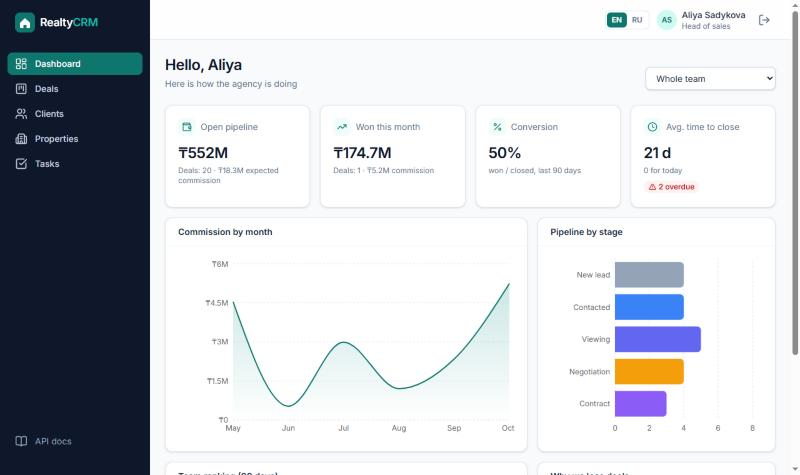
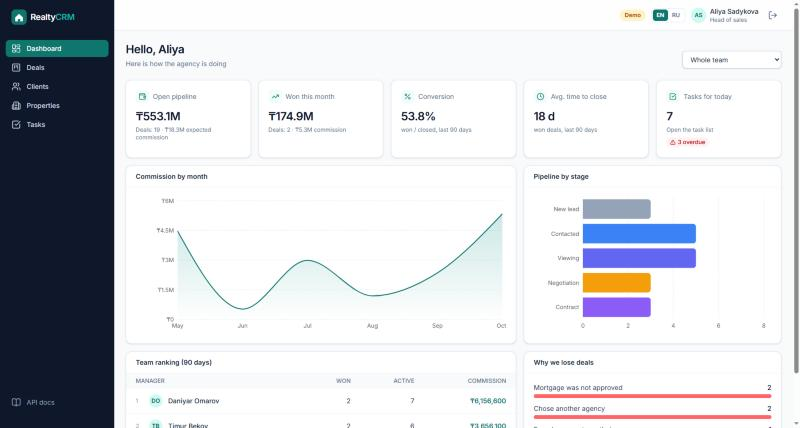
Balance dashboard cards on every screen width, update README and screenshot

diff --git a/frontend/src/pages/DashboardPage.tsx b/frontend/src/pages/DashboardPage.tsx
@@ -1,3 +1,4 @@
+import clsx from 'clsx'
 import { AlertTriangle, CheckSquare, Clock, Percent, TrendingUp, Wallet } from 'lucide-react'
 import { type ReactNode, useState } from 'react'
 import { useTranslation } from 'react-i18next'
@@ -31,6 +32,7 @@ function Kpi({
   hint,
   hintTo,
   alert,
+  className,
 }: {
   icon: ReactNode
   label: string
@@ -38,9 +40,10 @@ function Kpi({
   hint?: string
   hintTo?: string
   alert?: { text: string; to: string }
+  className?: string
 }) {
   return (
-    <Card className="p-5">
+    <Card className={clsx('p-5', className)}>
       <div className="flex items-center gap-2 text-sm text-slate-500">
         <span className="rounded-lg bg-brand-50 p-1.5 text-brand-700">{icon}</span>
         {label}
@@ -114,8 +117,10 @@ export function DashboardPage() {
         }
       />
 
-      <div className="grid gap-4 sm:grid-cols-2 lg:grid-cols-3 2xl:grid-cols-5">
+      {/* 5 cards that always fill the row: 2+2+1 on tablets, 3+2 on laptops, 5 in a row on wide screens */}
+      <div className="grid gap-4 sm:grid-cols-2 lg:grid-cols-6 2xl:grid-cols-5">
         <Kpi
+          className="lg:col-span-2 2xl:col-span-1"
           icon={<Wallet className="size-4" />}
           label={t('dashboard.pipeline')}
           value={money(data.pipeline.amount, true)}
@@ -125,6 +130,7 @@ export function DashboardPage() {
           })}
         />
         <Kpi
+          className="lg:col-span-2 2xl:col-span-1"
           icon={<TrendingUp className="size-4" />}
           label={t('dashboard.wonThisMonth')}
           value={money(data.won_this_month.amount, true)}
@@ -134,12 +140,14 @@ export function DashboardPage() {
           })}
         />
         <Kpi
+          className="lg:col-span-2 2xl:col-span-1"
           icon={<Percent className="size-4" />}
           label={t('dashboard.conversion')}
           value={data.conversion_rate === null ? '—' : `${data.conversion_rate}%`}
           hint={t('dashboard.conversionHint')}
         />
         <Kpi
+          className="lg:col-span-3 2xl:col-span-1"
           icon={<Clock className="size-4" />}
           label={t('dashboard.avgDays')}
           value={
@@ -148,6 +156,7 @@ export function DashboardPage() {
           hint={t('dashboard.avgHint')}
         />
         <Kpi
+          className="sm:col-span-2 lg:col-span-3 2xl:col-span-1"
           icon={<CheckSquare className="size-4" />}
           label={t('dashboard.todayTasks')}
           value={String(data.tasks.today)}

diff --git a/README.md b/README.md
@@ -7,9 +7,10 @@ tasks and a dashboard with commission analytics. Managers work with their own de
 
 **Backend:** Python 3.12 · Django 5.2 · Django REST Framework · JWT (httpOnly cookies) · PostgreSQL · OpenAPI/Swagger
 **Frontend:** React 19 · TypeScript (strict) · Vite · Tailwind CSS · TanStack Query · dnd-kit · Recharts · i18next (RU/EN)
-**Quality:** 50 backend tests on PostgreSQL · 16 frontend tests (Vitest + Testing Library) · ruff · oxlint · Prettier · Docker · GitHub Actions
+**Quality:** 70 backend tests on PostgreSQL (incl. N+1 query guards) · 23 frontend tests (Vitest + Testing Library) · ruff · oxlint · Prettier · Docker · GitHub Actions
 
 > 🔗 **Live demo:** _coming soon_ — on the login page click **Head of sales** or **Manager** to try it without signing up.
+> It is a public demo: deleting is disabled and the data is recreated every time the server wakes up.
 
 ![Dashboard](docs/screenshots/dashboard.jpg)
 
@@ -31,11 +32,14 @@ tasks and a dashboard with commission analytics. Managers work with their own de
   reassigns deals, reopens closed ones and sees the team ranking.
 - **Property catalog** — sale and rent listings in Astana with filters (type, district, status, rooms, price).
 - **Deal page** — stage stepper, tasks, notes and an automatic history of every change.
-- **Tasks** — overdue / today / upcoming / done.
+- **Tasks** — overdue / today / upcoming / done, with counters on every tab.
 - **Dashboard** — open pipeline, won this month, conversion, average time to close, commission by month,
   pipeline by stage, reasons for lost deals, team ranking (head only), filter by manager.
 - **RU / EN** — the whole UI is translated; API errors come with a stable `code` that the frontend translates.
 - **API docs** — Swagger UI at `/api/docs/` generated from the code (schema validated in CI).
+- **UX details** — validation errors under the right field, styled confirm dialogs, accessible modals (focus trap,
+  Escape, focus returns to the trigger), client card with its deals, page titles, mobile layout, and an automatic
+  reload when a tab opened before a deploy asks for an old page file.
 
 ## Architecture
 
@@ -82,11 +86,14 @@ User (manager | head)
 |---|---|
 | Token theft via XSS | JWT access/refresh tokens live in **httpOnly cookies**; JavaScript never sees them |
 | CSRF (cookies are sent automatically) | Every unsafe request must carry Django's CSRF token header |
-| Long-lived stolen tokens | Access token lives 15 min; refresh token is rotated and sent only to `/api/auth/` |
-| Password brute force | Login is throttled to 5 attempts per minute per IP |
+| Long-lived stolen tokens | Access token lives 15 min; refresh token is rotated, sent only to `/api/auth/`, and revoked (blacklisted) on logout and after each use |
+| Password brute force | API login: 10 attempts per minute per IP; Django admin login: locked for 15 min after 5 failures. Counters live in the database cache, shared by all server processes |
 | Seeing other people's data | Querysets are filtered by role in one place (`services.visible_*`) |
 | Two deals taking one property | Row locks in a transaction + a partial unique constraint in the database |
 | Leaked secret key / public admin password | The app refuses to start without `DJANGO_SECRET_KEY`; admin password only from an env variable |
+| Vandalism on the public demo | Demo mode: deleting is disabled for everyone except a superuser, data is recreated on start |
+| Inconsistent data from manual edits | A reserved property cannot be released by hand; the sale/rent type is locked while deals are open |
+| Downgrade to HTTP | HTTPS redirect, secure cookies and HSTS in production |
 
 ## Run locally
 
@@ -103,6 +110,7 @@ cd backend
 python -m venv .venv && .venv\Scripts\activate     # macOS/Linux: source .venv/bin/activate
 pip install -r requirements-dev.txt
 python manage.py migrate
+python manage.py createcachetable                   # cache table for login attempt counters
 python manage.py seed_demo                          # demo agency in Astana
 python manage.py runserver
 ```
@@ -135,6 +143,9 @@ Deployed on [Render](https://render.com) with PostgreSQL on [Neon](https://neon.
 | `DJANGO_SECRET_KEY` | required in production |
 | `DJANGO_DEBUG` | `0` in production |
 | `DJANGO_ADMIN_PASSWORD` | password of the `admin` account for `/admin/` |
+| `DJANGO_DEMO_MODE` | `1` (default): public demo. `0`: a real agency — no demo logins, data is never reset |
+
+Health check for the hosting platform: `GET /api/health/` (checks the database).
 
 ## Roadmap
 
